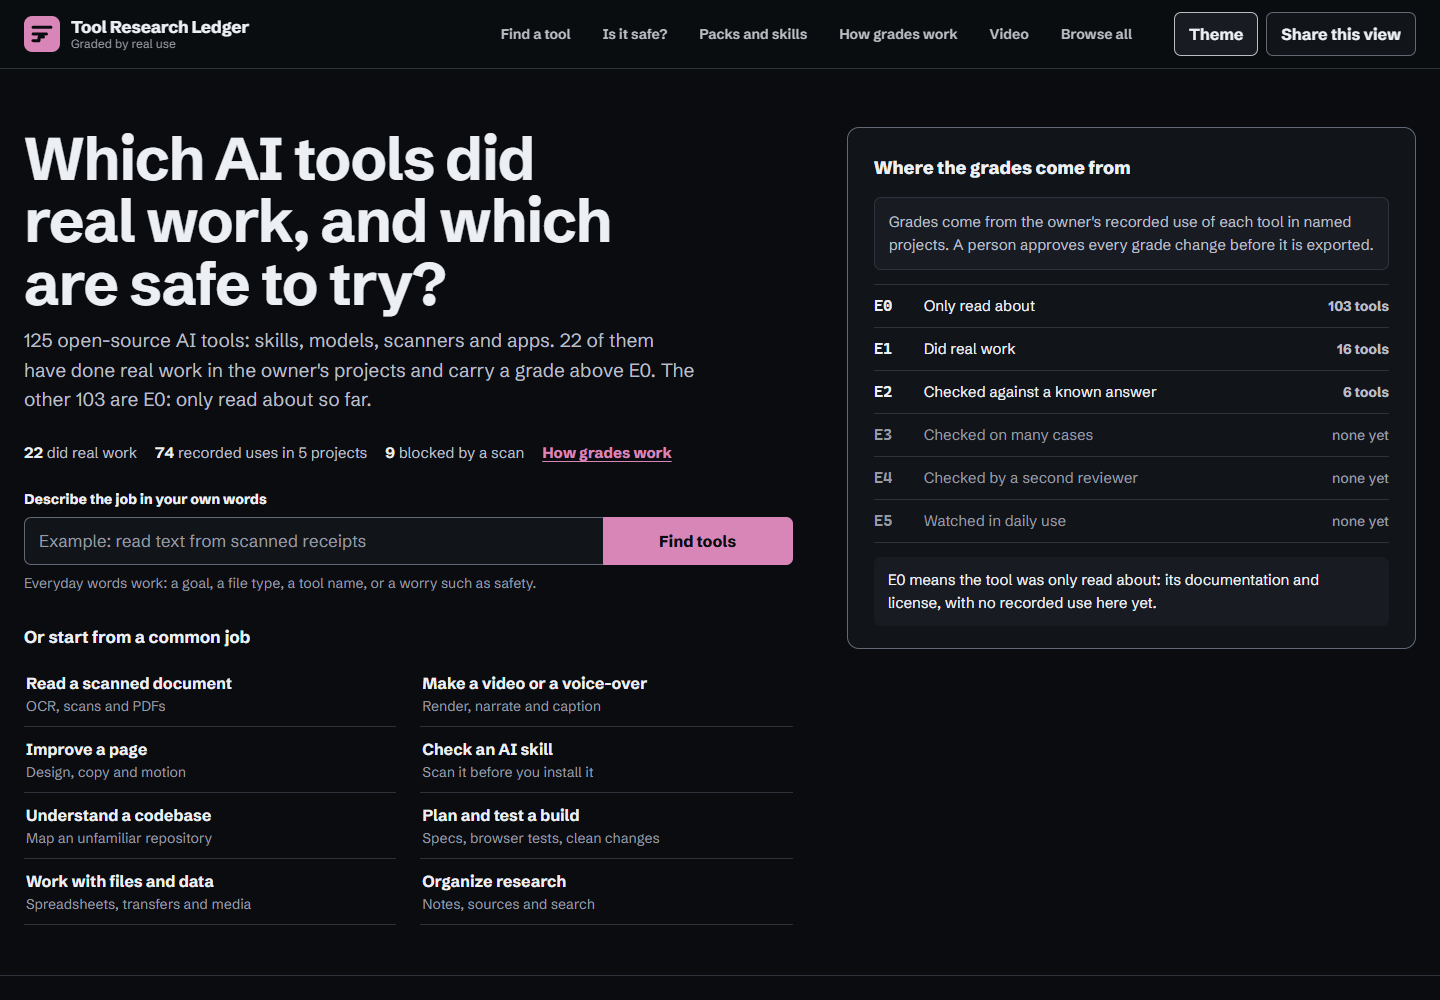
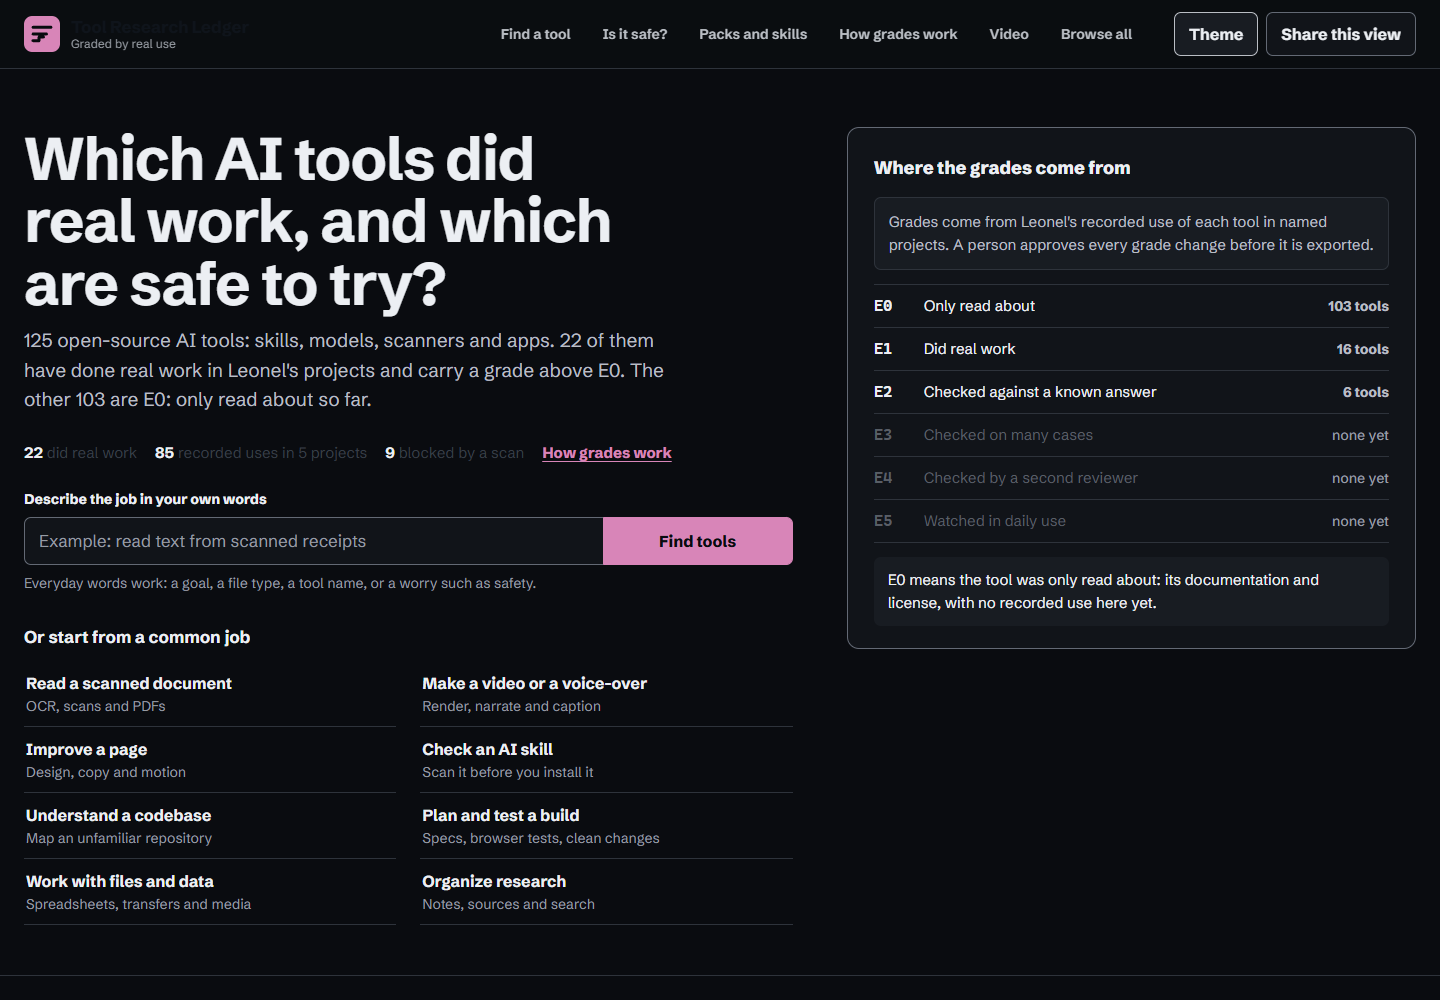
Record the round 2 test run and refresh the page screenshots

diff --git a/docs/checks/2026-10-28-round2-tests.md b/docs/checks/2026-10-28-round2-tests.md
@@ -11,3 +11,17 @@ Date: 2026-10-28. Run after the last code, data, video and README change on bran
 - Exit 0 for the whole chain.
 
 ## Actual
+
+`UPDATE_SCREENSHOTS=1 npm run verify`, exit 0 (the variable only writes the QA screenshots to `docs/images/`):
+
+```
+VERIFY_OK tools=125 graded=22 uses=85 groups=14 evidence=6
+MUTATION_OK invalid evidence scale, missing source, unbacked grade and unknown use were rejected
+CONTRAST_CHECK_OK pairs=28
+HUMANIZER_CHECK_OK files=12 tools=125
+BROWSER_QA_OK search filter compare evidence decisions focus responsive reduced-motion console
+PRIVACY_SCAN_OK no private paths, assigned secrets, credential-like tokens, or private keys detected
+BUILD_OK files=85
+```
+
+Every line matches the expected result. Before this run, `npm test` had failed twice while the work was in progress. First, the import script crashed when re-run, because the video-voice family started empty. Then the public path check read a whole baseline note ("docs/checks/x.md, written before the run: ...") as a file path. Both were fixed in commit 231b032, before these expected results were written.
